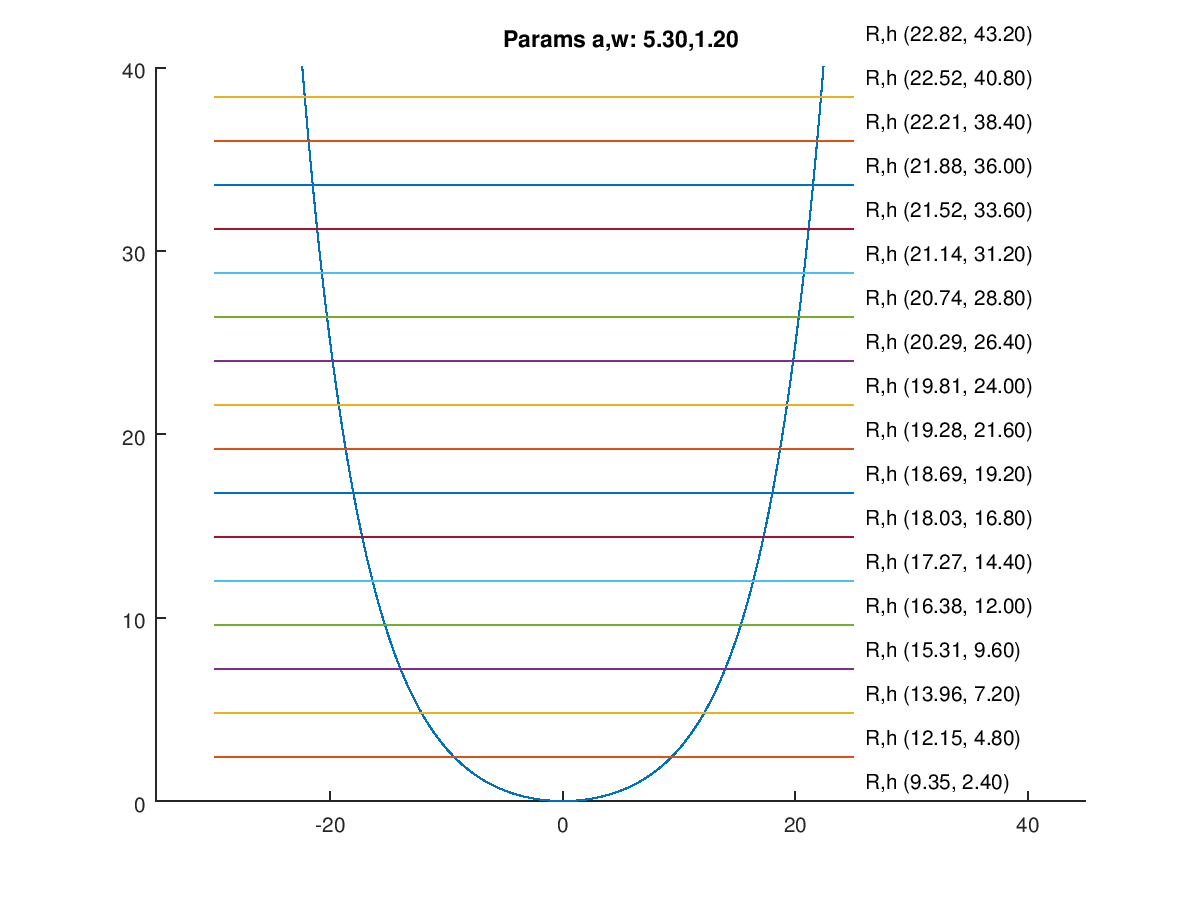
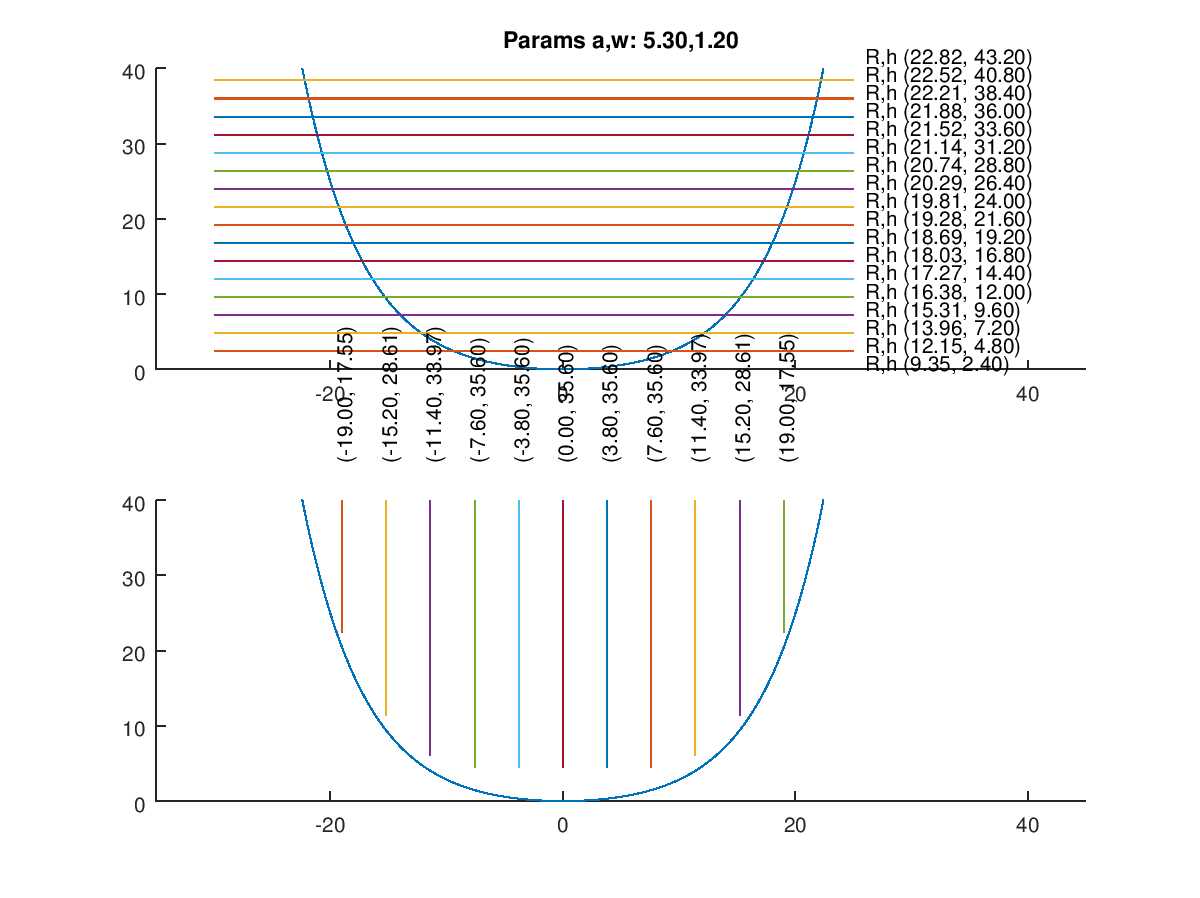
defined frame lengths

diff --git a/Catenary3.m b/Catenary3.m
@@ -3,6 +3,7 @@
 # frame height: 37 to 27 X 300 X 6
 # |----|
 # |____|
+
  
 % Prevent Octave from thinking that this
 % is a function file:
@@ -15,9 +16,25 @@ function [x, y] = catenary(s,w,a)
   # y=a*cosh((x)/a) - a;
     y = w*(cosh(x/a)-1);
 end
-% s, the length of the chain in increments 
 
-s = [-50:0.01:50]; % meters
+
+# numeric search for the corresponding y for a given x in an 2 dim matrix
+function result = find_y_in_matrix(mat,x)
+  i = 3;
+    while (i <= rows(mat))
+      if (mat(i-1,1) < x && mat(i,1) >= x)
+        result =  mat(i,2)
+        
+        break
+      endif  
+      i += 1;
+    end
+end     
+        
+        
+        
+
+
 
 
 ## http://www.beginningbeekeeping.com/BeeFaqs.htm
@@ -27,6 +44,8 @@ s = [-50:0.01:50]; % meters
 
 
 ## I needed to tweak the T to get into a workable catenary shape
+% s, the length of the chain in increments used to calculate the catenary
+s = [-50:0.01:50]; % meters
 
 # dimensions
 hive_height = 40;
@@ -39,10 +58,10 @@ for a = 5.30
   [x, y] = catenary(s, w, a);;
     # draw the catenary curve
     fig = figure;
-    subplot(1,1,1);
+    ax1 = subplot(2,1,1);
     title(sprintf("Params a,w: %0.2f,%0.2f",a,w));
     hold on;
-    plot(x,y);
+    plot(ax1,x,y);
     axis([-35 45 0 hive_height]);
     C = [x; y]';
     #save myfile.mat C;
@@ -55,7 +74,7 @@ for a = 5.30
            new_row = [C(i,1), C(i,2)];
            # add lines on the curve graph
             %% plot a line between two points using plot([x1,x2],[y1,y2])
-            plot([-30,25],[h,h]);
+            plot(ax1,[-30,25],[h,h]);
             text(26, h-(wood_width/2), sprintf("R,h (%0.2f, %0.2f)",C(i,1),h));
             
             hold on;           
@@ -66,10 +85,36 @@ for a = 5.30
         
     end
     
-    print(fig, sprintf("Catenary_a_w_%0.2f_%0.2f.jpg",a,w), '-dpng')
-    # closereq();
-    close();
+
+    #close();
 
   end
 
 end
+
+# plot frames
+ax2 = subplot(2,1,2);
+hold on;
+plot(ax2, x,y);
+axis([-35 45 0 hive_height]);
+yend = 0;
+
+# 3.8 cm distance between honeycombs
+for x = -19 :3.8:20 
+     
+    #find the y for the intersection between the frame and the hive side, 
+    # add +2 to make room to the bees
+    ystart = 40
+    
+    #considering maxlength as the diff between Ystart and wood_width -2
+    
+    
+    yend = max(find_y_in_matrix(C,x) +2, wood_width +2);    
+    plot(ax2,[x x], [ystart yend]);   
+
+    h = text(x, 45, sprintf("(%0.2f, %0.2f)",x, ystart - yend));
+    # get_nearest_y
+    set(h,'Rotation',90);
+end
+
+    print(fig, sprintf("Catenary_a_w_%0.2f_%0.2f.jpg",a,w), '-dpng')
